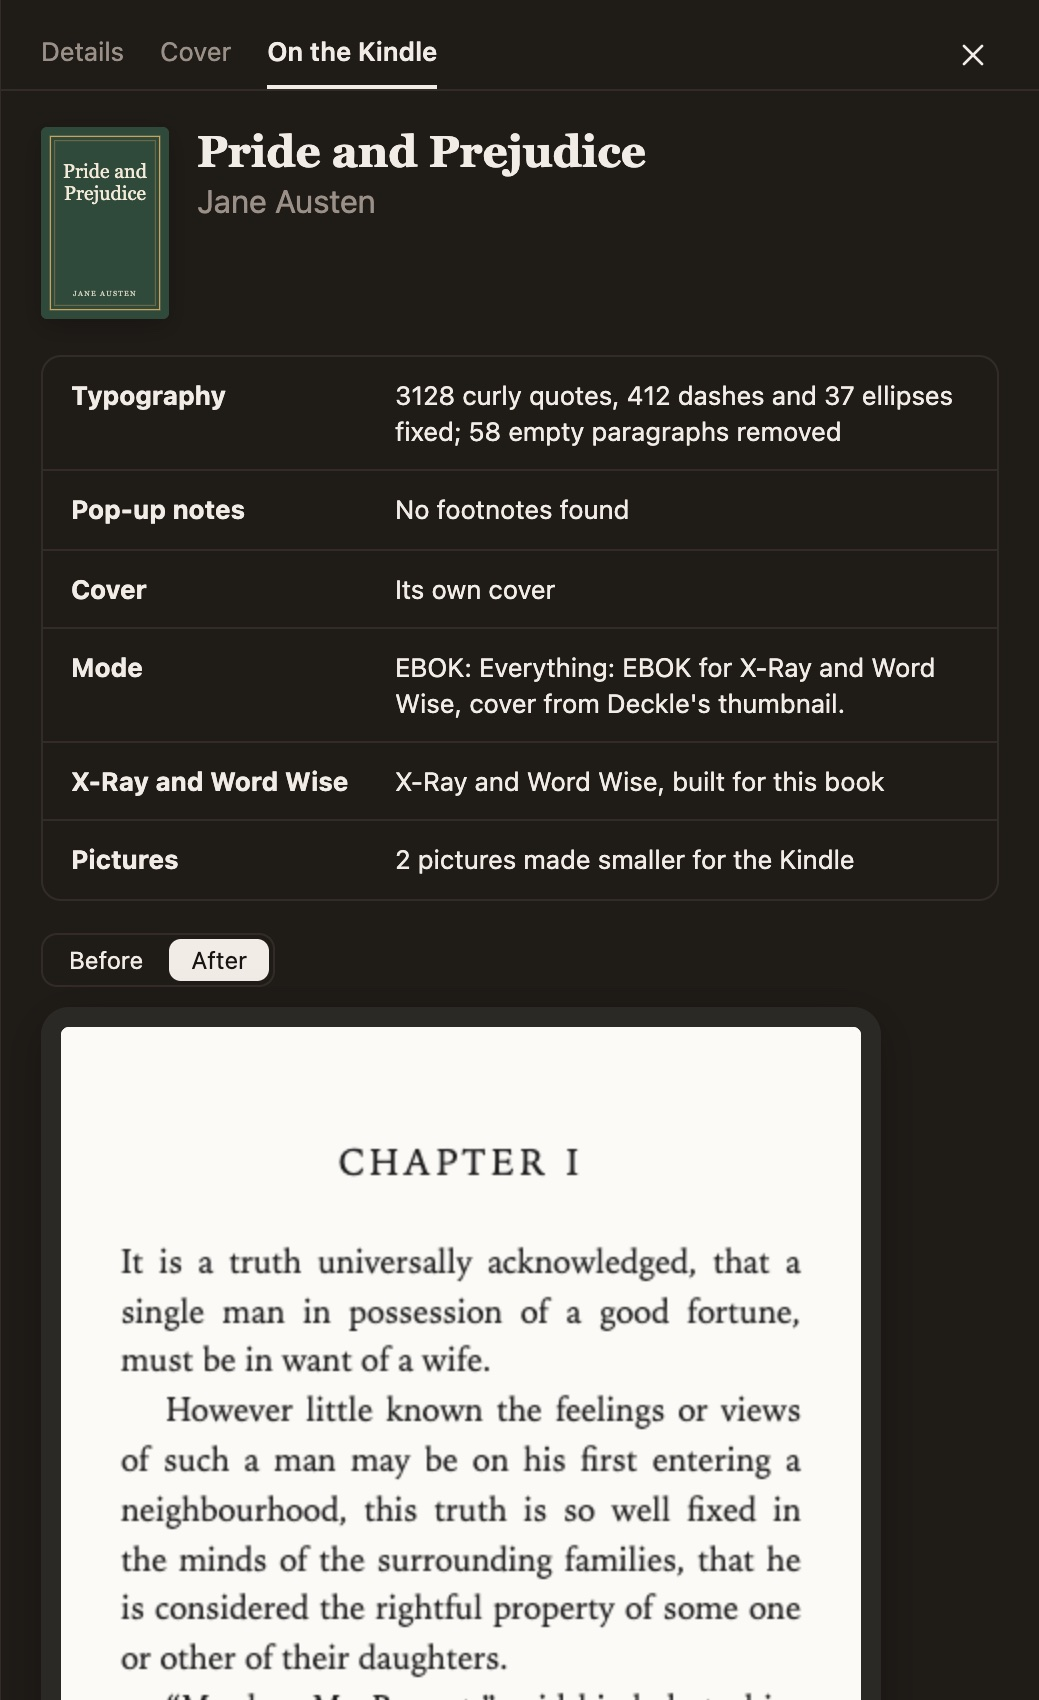
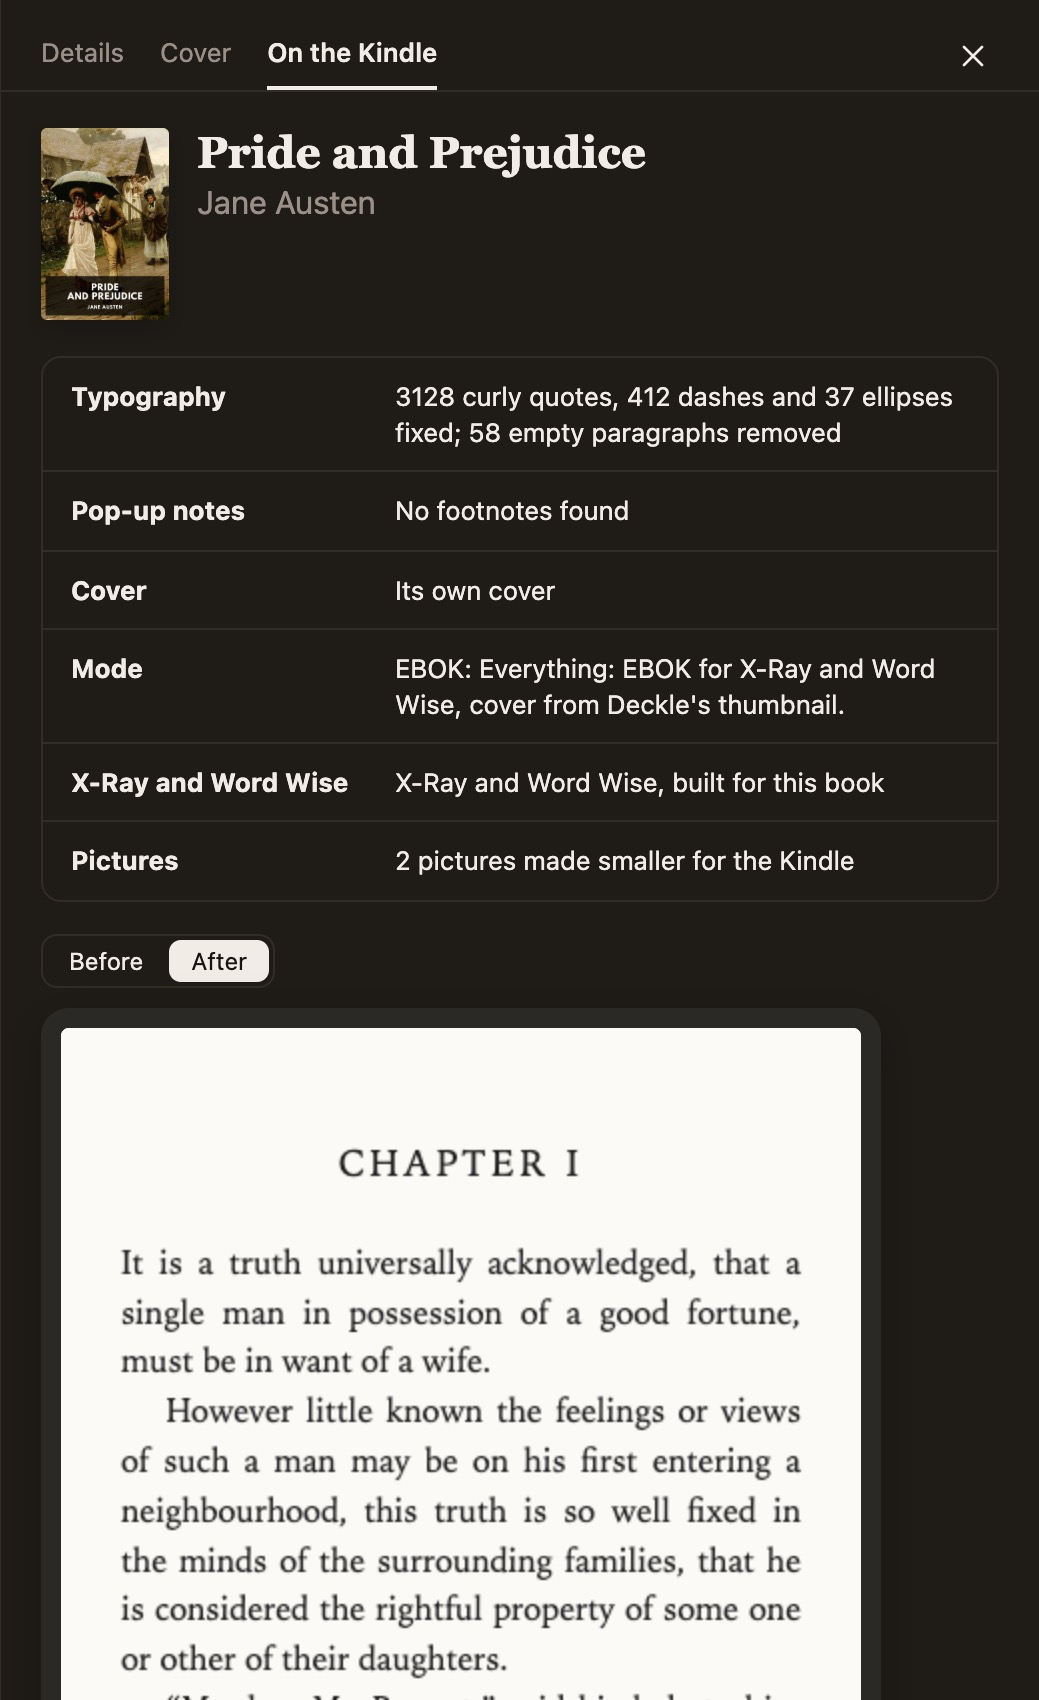
content(deckle): show real public-domain cover art in the app shots
Books, book drawer and Kindle shelf screenshots now show each novel's
Standard Ebooks cover (public-domain paintings, CC0 cover design) in
place of the plain typographic covers made for the shot. Same harness,
UI (0.7.0), sizes and crops as before.

Claude-Session: https://claude.ai/code/session_01QDFLNMgyVk3kRNehG4iA3P

diff --git a/PLAN.md b/PLAN.md
@@ -644,7 +644,8 @@ reader honesty still apply.
 ### 17.2 Imagery
 
 - App shots: the real React UI with mocked Tauri IPC, dark mode, 1280x800 at 2x, in
-  `src/assets/deckle/app/`. Public-domain novels with covers made for the shot, a Kindle
+  `src/assets/deckle/app/`. Public-domain novels with their Standard Ebooks covers
+  (public-domain paintings; the cover design is CC0), a Kindle
   Scribe with a plain name, the fictional Linden Falls paper. No real people, paths or
   email addresses.
 - Paper pages: a fresh demo edition built by `deckle_digest::build` with a canned `Net`, in
